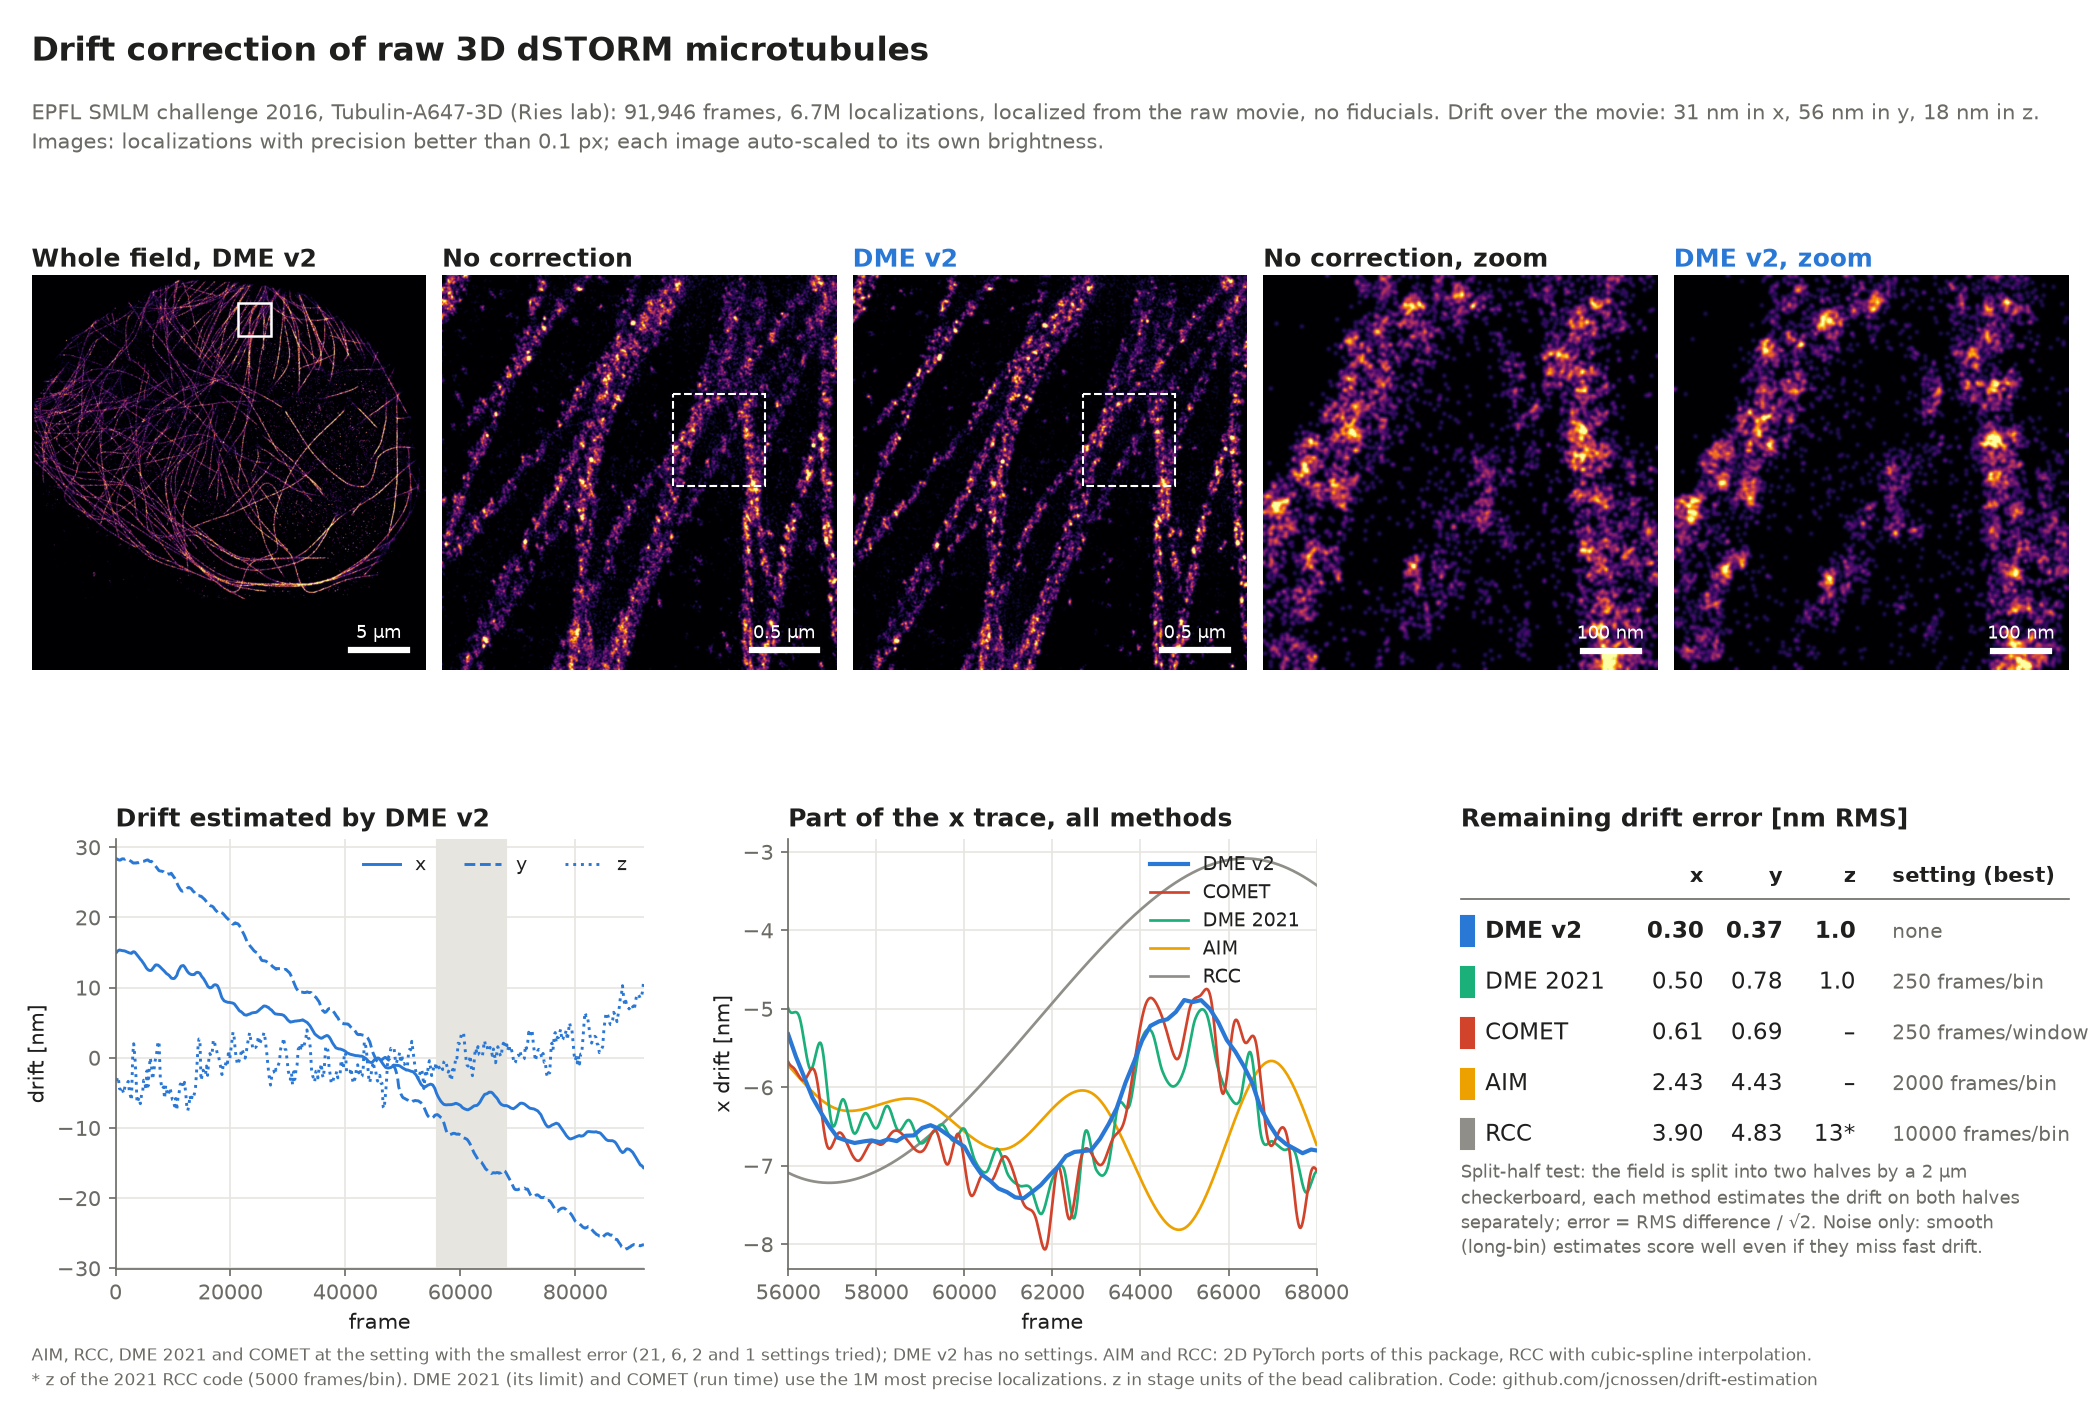
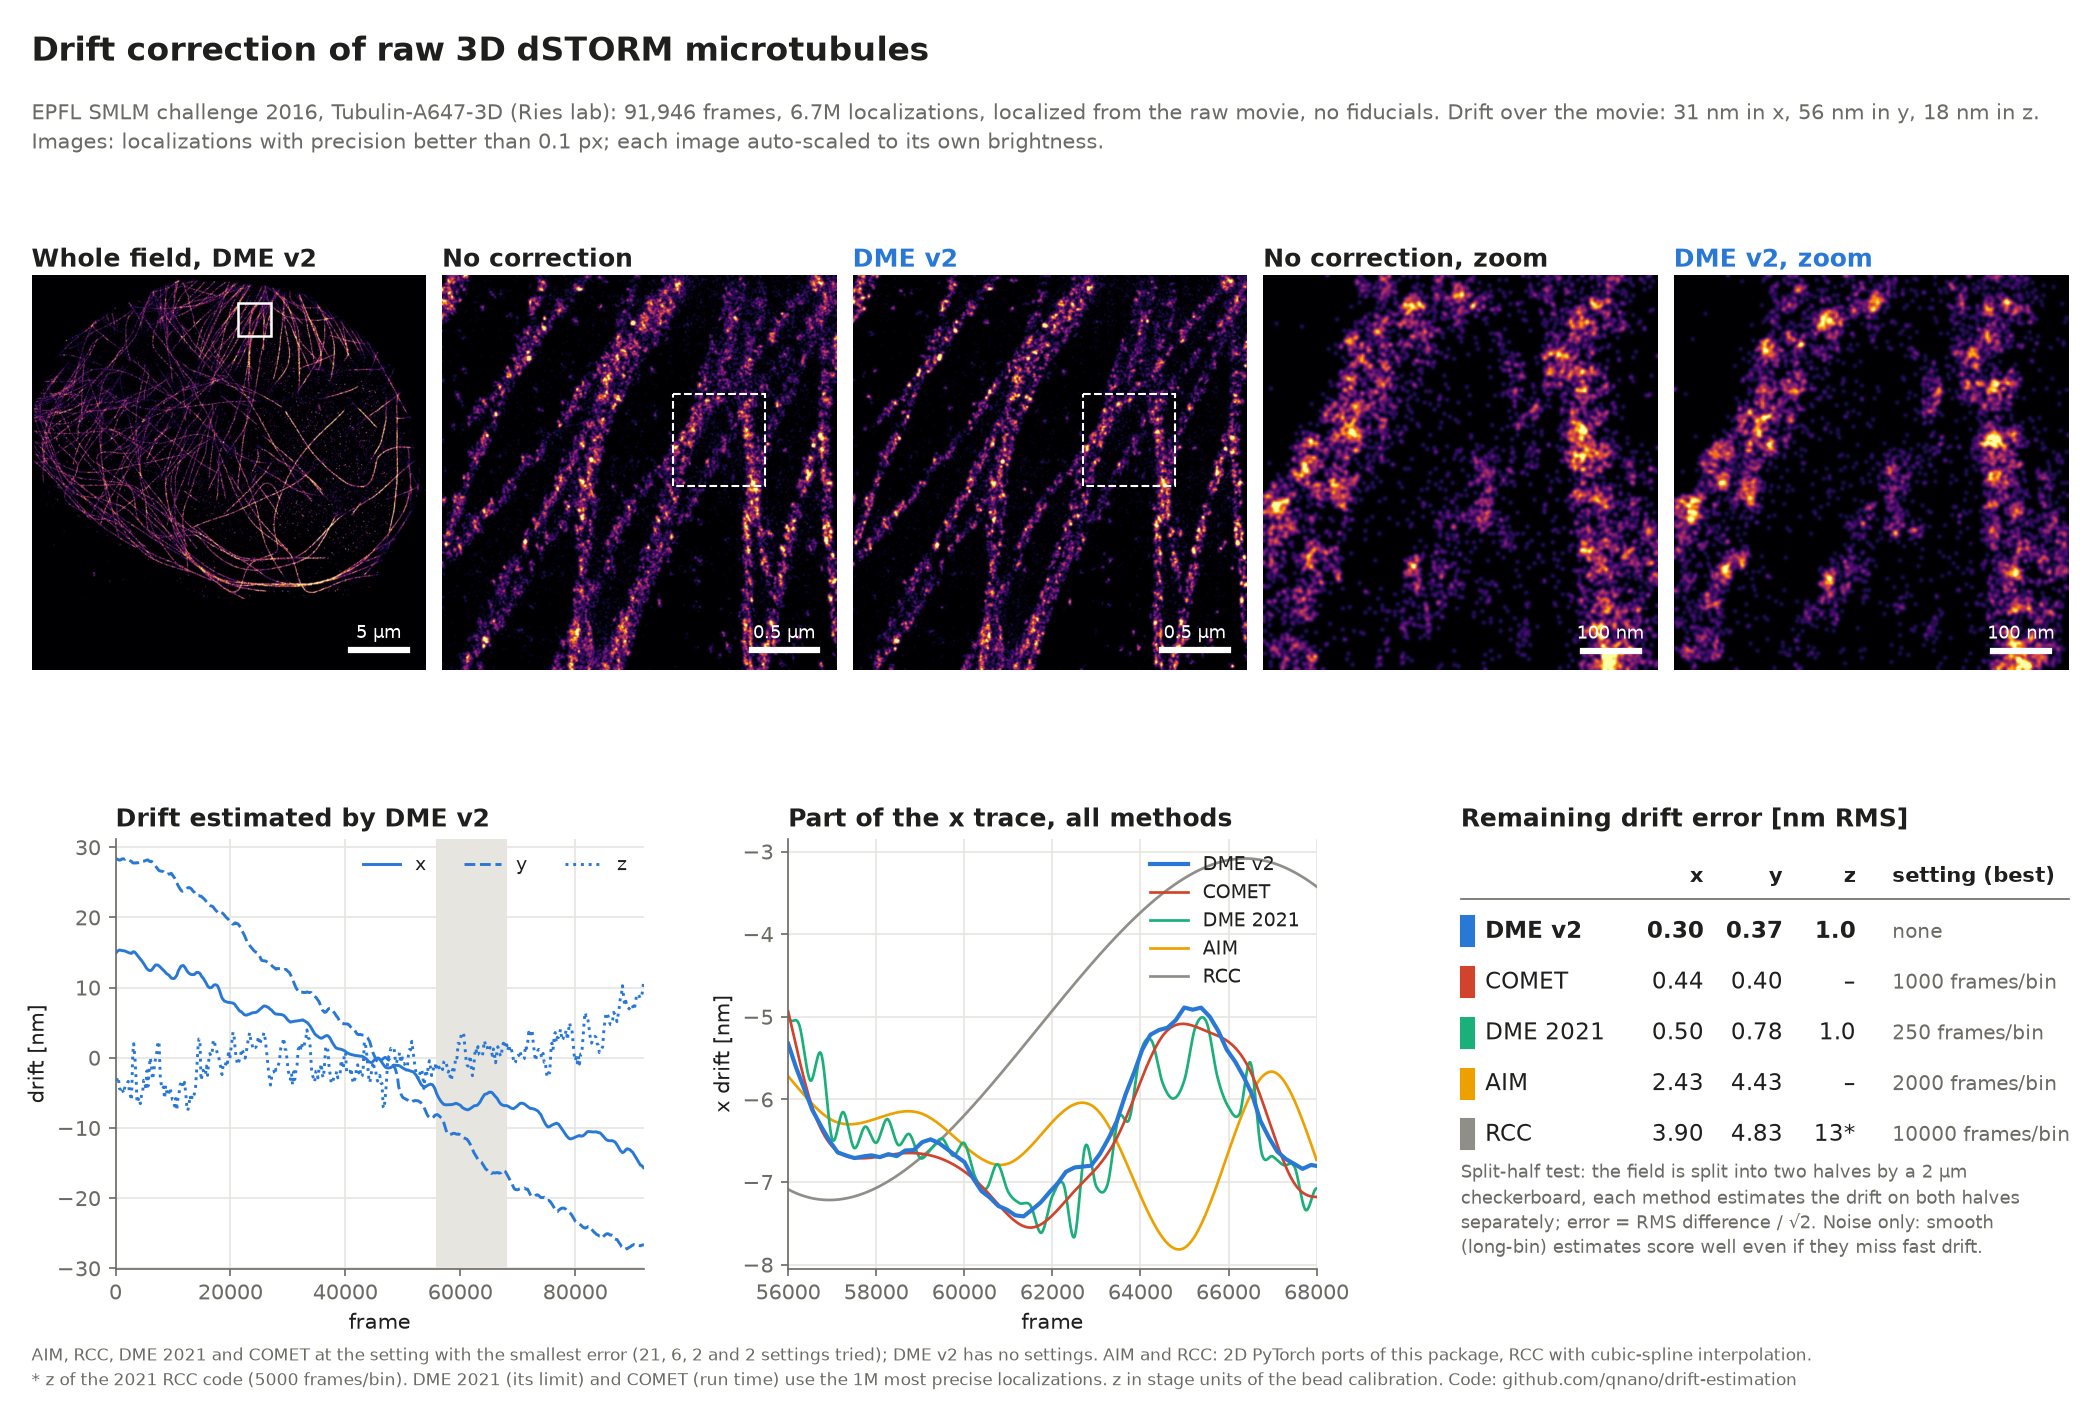
EPFL tubulin: COMET with 1000-frame windows (0.44 / 0.40 nm), second of six window lengths; table order

diff --git a/benchmark/realdata_epfl/tub_figure.py b/benchmark/realdata_epfl/tub_figure.py
@@ -135,7 +135,7 @@ ax1.set_xlabel('frame'); ax1.set_ylabel('drift [nm]'); ax1.set_xlim(0, F)
 ax1.set_title('Drift estimated by DME v2', fontsize=12, fontweight='bold', loc='left')
 ax1.legend(frameon=False, fontsize=9, ncol=3, loc='upper right')
 ax2 = fig.add_subplot(gbot[0, 1])
-for m in ('rcc', 'aim', 'dme2021', 'comet', 'dme_v2'):
+for m in ('rcc', 'aim', 'dme2021', 'comet', 'dme_v2'):   # drawn back to front
     ax2.plot(t[T0:T1], nm(KEY[m] + '_all')[T0:T1, 0], color=COL[m], lw=2.0 if m == 'dme_v2' else 1.3, label=NAME[m])
 ax2.set_xlim(T0, T1); ax2.set_xlabel('frame'); ax2.set_ylabel('x drift [nm]')
 ax2.set_title('Part of the x trace, all methods', fontsize=12, fontweight='bold', loc='left')
@@ -149,8 +149,8 @@ for ax in (ax1, ax2):
 # table of split-half errors
 ax3 = fig.add_subplot(gbot[0, 2]); ax3.axis('off')
 ax3.set_title('Remaining drift error [nm RMS]', fontsize=12, fontweight='bold', loc='left')
-rows = [('dme_v2', 'DME v2', 'dme_v2_3d', 'none'), ('dme2021', 'DME 2021', 'dme2021_3d_250', '250 frames/bin'),
-        ('comet', 'COMET', KEY['comet'], f'{CFB} frames/window'),
+rows = [('dme_v2', 'DME v2', 'dme_v2_3d', 'none'), ('comet', 'COMET', KEY['comet'], f'{CFB} frames/bin'),
+        ('dme2021', 'DME 2021', 'dme2021_3d_250', '250 frames/bin'),
         ('aim', 'AIM', 'aim_2000_0.1', '2000 frames/bin'), ('rcc', 'RCC', KEY['rcc'], f'{RFB} frames/bin')]
 zrcc = split('rccorig3d_5000')[2]
 cols = [0.0, 0.40, 0.53, 0.65, 0.79]
@@ -177,7 +177,7 @@ ax3.text(0, 0.02, 'Split-half test: the field is split into two halves by a 2 µ
 fig.text(0.015, 0.012, f'AIM, RCC, DME 2021 and COMET at the setting with the smallest error (21, 6, 2 and {len(cs)} settings tried); '
          'DME v2 has no settings. AIM and RCC: 2D PyTorch ports of this package, RCC with cubic-spline interpolation.\n'
          '* z of the 2021 RCC code (5000 frames/bin). DME 2021 (its limit) and COMET (run time) use the 1M most precise localizations. '
-         'z in stage units of the bead calibration. Code: github.com/jcnossen/drift-estimation', fontsize=8.2,
+         'z in stage units of the bead calibration. Code: github.com/qnano/drift-estimation', fontsize=8.2,
          color=MUTED, ha='left', va='bottom', linespacing=1.45)
 fig.savefig(f'{D}/drift/tub_figure.png', dpi=150, facecolor='white')
 print('saved')

diff --git a/docs/comparison.md b/docs/comparison.md
@@ -101,9 +101,9 @@ Tubulin:
 | method | error x (nm) | error y (nm) | error z (nm) | runtime, all data (s) | best setting (of) |
 |---|---|---|---|---|---|
 | **DME v2** | **0.30** | **0.37** | **1.0** | 120 | – |
+| COMET (2D) | 0.44 | 0.40 | – | 310 | 1000-frame windows, 10 nm (2 so far), best 1M localizations |
 | DME 2021 (3D) | 0.50 | 0.78 | 1.0 | 49 | 250 frames per bin (2), best 1M localizations |
 | DME 2021 (2D) | 0.44 | 1.29 | – | 12 | 1000 frames per bin (5), best 1M localizations |
-| COMET (2D) | 0.61 | 0.69 | – | 490 | 250-frame windows, 10 nm (1 so far), best 1M localizations |
 | AIM (2D) | 2.4 | 4.4 | – | 1 | 2000 frames per bin, 0.1 px (21) |
 | RCC (2D) | 3.9 | 4.8 | – | <1 | 10000 frames per bin (6) |
 | RCC 2021 code (3D) | 4.5 | 8.3 | 13 | 38 | 5000 frames per bin (3) |
@@ -119,7 +119,7 @@ Nuclear pores:
 | RCC 2021 code (3D) | 4.3 | 3.4 | 14 | 10000 frames per bin (3) |
 
 Notes: COMET was run on the 1M most precise localizations of each subset: on a full half (3.4M) one run did not
-finish in 40 minutes and used 66 GB of RAM; only one of its six window lengths has finished so far. AIM here is the
+finish in 40 minutes and used 66 GB of RAM; two of its six window lengths have finished so far (250 frames: 0.61 / 0.69 nm). AIM here is the
 2D PyTorch port in this package. "RCC (2D)" is `rcc_torch` with `maxdrift_px=10`, the peak search
 window of the 2021 RCC code; with its default (whole image) it fails on these sparse dSTORM time bins. For tubulin the
 RCC bins are interpolated with a cubic spline (3.3 / 4.5 nm with linear interpolation); for the pores linearly. The pixel size

diff --git a/README.md b/README.md
@@ -23,7 +23,7 @@ On simulated DNA-PAINT data DME v2 is 1.6–2.1× more precise than COMET, the n
 than AIM, RCC and the 2021 DME code, although each of those was run at its best settings, picked with the true drift
 (DME v2 has no settings). On a real DNA-PAINT nanoruler (the dataset in `example_data/`) it is also the most precise.
 On raw 3D dSTORM data with real drift (EPFL challenge microtubules, 6.7M localizations) its split-half error is
-0.3 nm in x and y and 1 nm in z, against 0.5–1.3 nm for the 2021 code, 0.6–0.7 nm for COMET and 2–5 nm for AIM and
+0.3 nm in x and y and 1 nm in z, against 0.4 nm (x, y only) for COMET, 0.5–1.3 nm for the 2021 code and 2–5 nm for AIM and
 RCC at their best settings (figure below).
 It is slower than AIM and RCC: 3 s for 10k localizations, 20 s for 1M, 3 minutes for 10M on an RTX 3090.
 Details, tables and the settings searched: [docs/comparison.md](docs/comparison.md).
